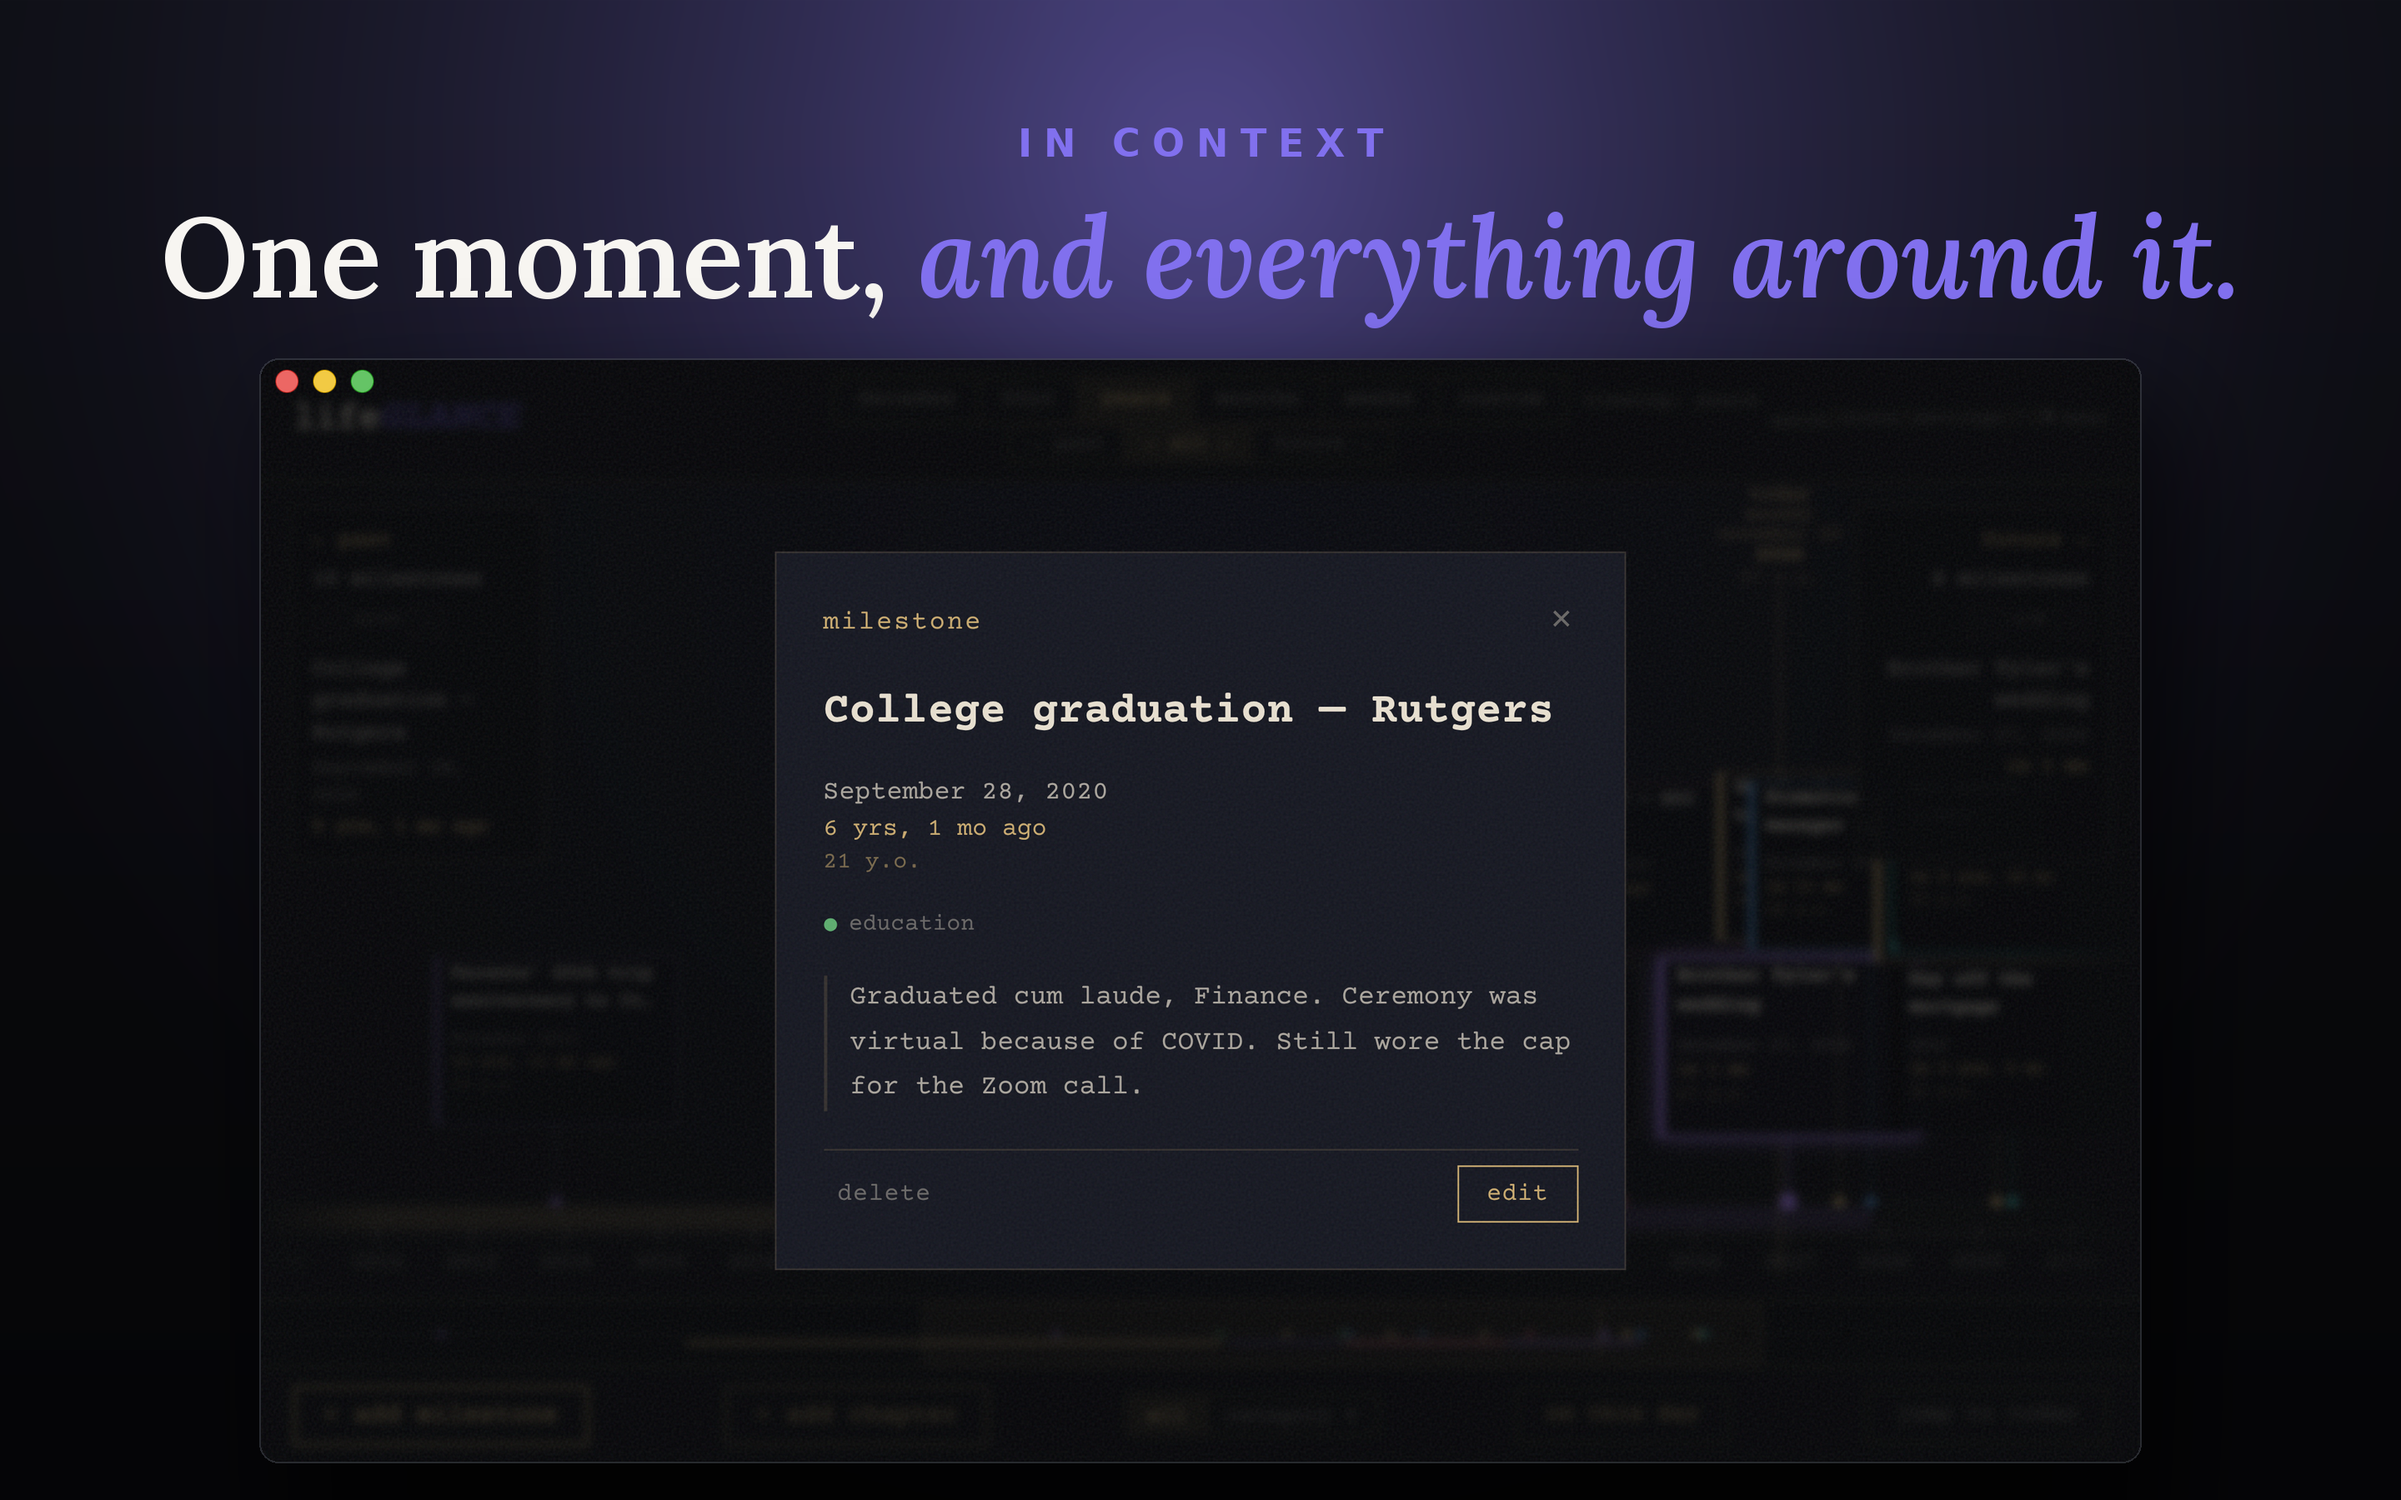
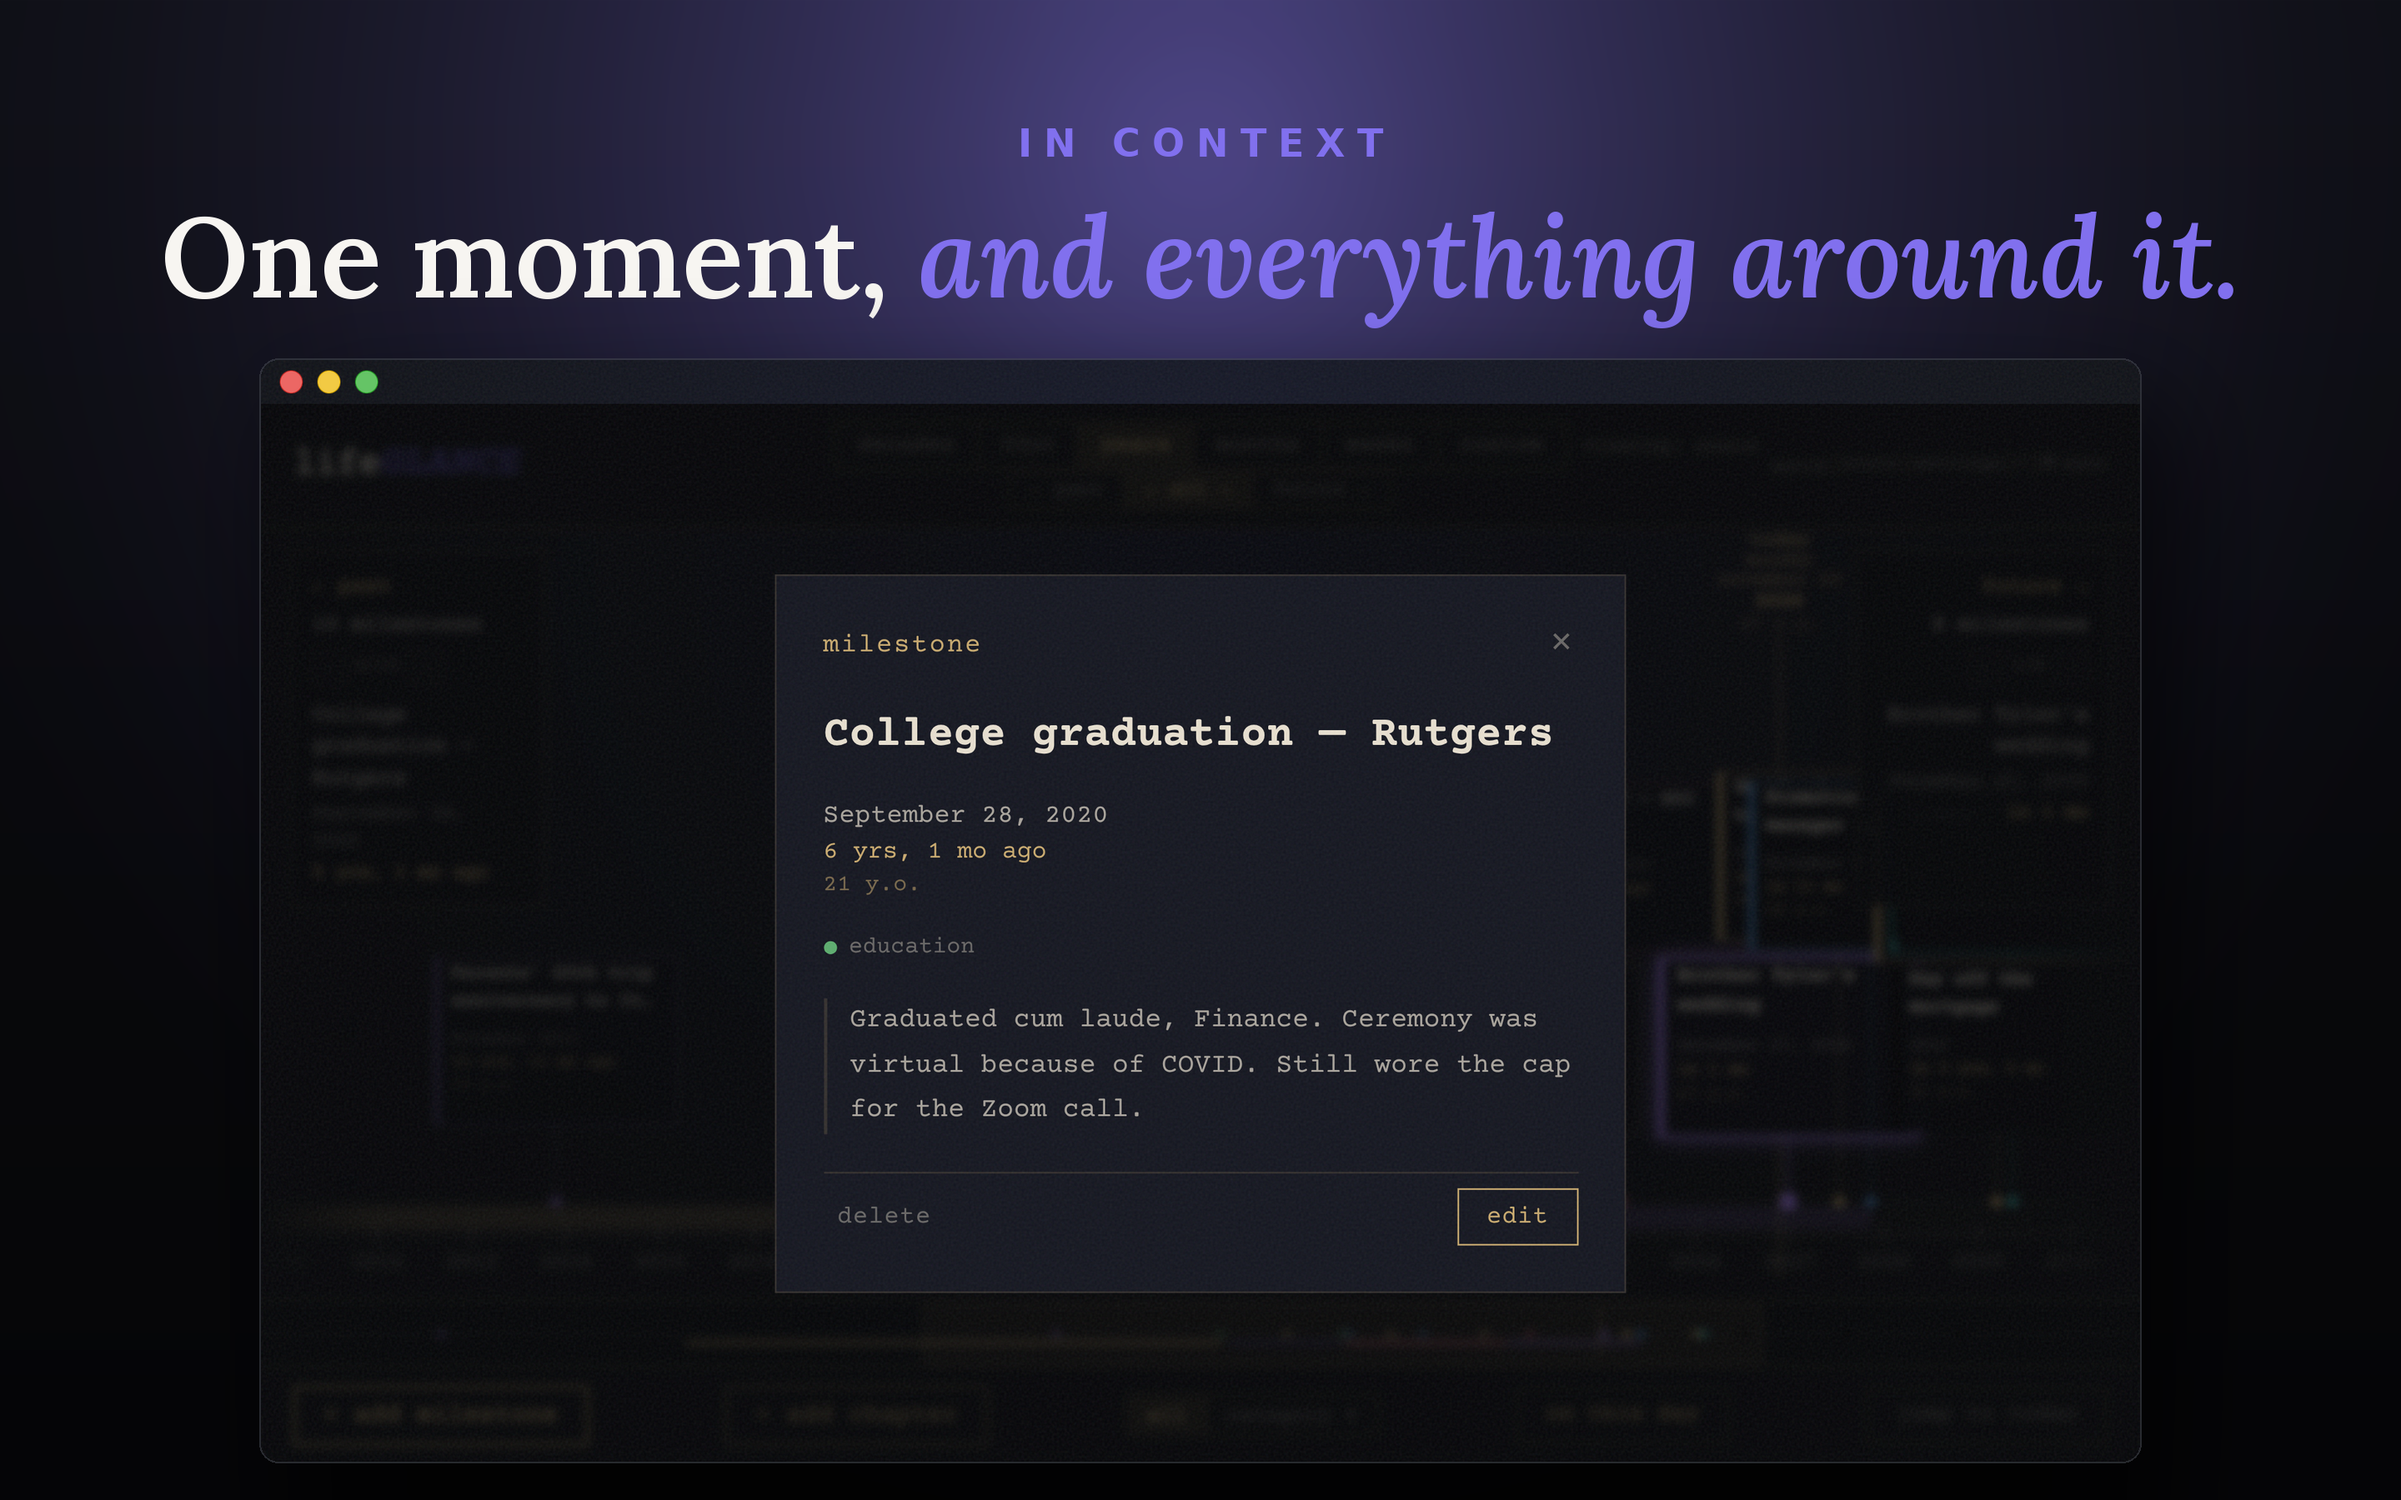
Mac screenshots: capture the real title strip
The Mac panes were captured without the 28px macOS title strip. The init
script that sets html.desktop-darwin ran before <html> existed, so the
add threw on a null documentElement and nothing said so. The traffic
lights then landed on the app's own header instead of in a title bar,
and with a dialog open the dimmed backdrop covered them too. In the Mac
app the strip is its own band, in the page's background, and a dialog
leaves it undimmed.

- The init script waits for <html> before adding the class.
- Every Mac pane asserts #root has its 28px padding before capturing,
  so this cannot silently regress.
- The traffic lights sit at the app's trafficLightPosition, measured
  off a real capture: red's centre 19.5 pt in and 14.5 pt down (it was
  17 pt and 14 pt).

All five frames regenerated.

Claude-Session: https://claude.ai/code/session_01T5XvgAcuYZuE7HGPD4Mq2H

diff --git a/scripts/compose-apple-frames.py b/scripts/compose-apple-frames.py
@@ -337,14 +337,16 @@ def add_traffic_lights(pane, scale):
     """Put the traffic lights in the pane's macOS title strip. The strip is
     28 CSS px of page background (html.desktop-darwin, src/index.css); the
     lights' geometry is the donor's, which is 2x, so it scales by scale / 2.
-    Red's centre sits 17 pt from the window edge, vertically centred."""
+    The position is the app's own (trafficLightPosition { x: 12, y: 8 } in
+    electron/main.js), measured off a real capture of the Mac app: red's
+    centre 19.5 pt in from the window edge and 14.5 pt down."""
     lights = Image.open(TRAFFIC_LIGHTS).convert("RGBA")
     k = scale / 2
     if k != 1:
         lights = lights.resize((round(lights.width * k), round(lights.height * k)), Image.LANCZOS)
     # In the donor crop, red's centre is at (18, 16); on the 2x window it is
-    # at (34, 28): 17 pt in, and the middle of the 28 pt strip.
-    x, y = round((34 - 18) * k), round((28 - 16) * k)
+    # at (39, 29).
+    x, y = round((39 - 18) * k), round((29 - 16) * k)
     out = pane.convert("RGBA")
     out.alpha_composite(lights, (x, y))
     return out.convert("RGB")

diff --git a/store-assets/README.md b/store-assets/README.md
@@ -63,7 +63,10 @@ the app in a floating window with rounded corners and a shadow.
   strip the desktop app has on macOS (`src/index.css`). The composer puts the
   traffic lights in that strip. They come from the kit's real Mac capture,
   keyed to alpha (`scripts/assets/mac-traffic-lights.png`), so they sit on
-  lifeGLANCE's own background rather than on dayGLANCE's title bar.
+  lifeGLANCE's own background rather than on dayGLANCE's title bar, at the
+  app's own `trafficLightPosition`. The capture fails if the strip is missing
+  (`#root` without its 28px padding), because without it the lights land on
+  the app's header and the frame no longer looks like the Mac app.
 - **Shot 2 is the category lanes** (5.2). The demo's chapters have no category,
   so the lanes shot gives the four eras theirs and adds three chapters from the
   same persona (`LANE_CHAPTERS` in `scripts/screenshots.mjs`). Both lane
